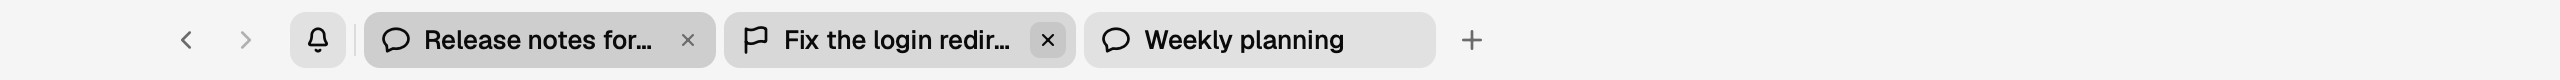
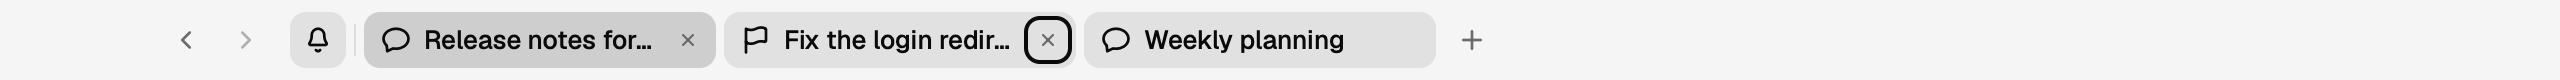
fix(rune-kit): reach and reveal the tab close button by keyboard (OPE-1975)

Changed region(s): [[0.375, 0.2, 0.4375, 0.8]]

diff --git a/apps/rune-preview/kit/src/surfaces/s01_chrome/title_bar.rs b/apps/rune-preview/kit/src/surfaces/s01_chrome/title_bar.rs
@@ -131,6 +131,7 @@ pub struct TitleBar<'a> {
 	pub traffic_lights: bool,
 	pub window_controls: Option<WindowControls>,
 	pub lift: Option<&'a Lift>,
+	pub revealed_close: Option<&'a str>,
 	pub incoming: Option<Incoming<'a>>,
 	pub overflow_open: bool,
 }
@@ -488,7 +489,8 @@ fn tab_view<S: 'static>(
 		view = view.child(text(title.clone()).font(TAB_TITLE).color(ink).truncate().shrink());
 		let shows_close = lift.is_none() && (is_active || bar.lift.is_none());
 		if shows_close {
-			view = view.child(close_button(t, language, tab.id, &title, is_active, emit));
+			let is_shown = is_active || bar.revealed_close == Some(tab.id);
+			view = view.child(close_button(t, language, tab.id, &title, is_shown, emit));
 		}
 	}
 	let rest = if tab.is_pinned { t.title_bar_pinned } else { t.title_bar_tab };
@@ -534,10 +536,9 @@ fn close_button<S: 'static>(
 		.label(copy(copy_keys::CLOSE_TAB_NAMED, language, &[("title", title)]))
 		.hover(t.title_bar_highlight)
 		.child(icon(&icons::CLOSE, CLOSE_GLYPH).color(t.muted_foreground).group_color(t.foreground))
-		.cursor(Cursor::Default)
 		.on_press(move |s: &mut S| emit(s, ChromeEvent::CloseTab(id.clone())));
 	let slot = el().pin(None, Some((TAB_HEIGHT - CLOSE) / 2.0), Some(CLOSE_END), None);
-	let slot = slot.child(instant(button.hover_group()));
+	let slot = slot.child(focusable(instant(button.hover_group()), t));
 	if is_shown { slot } else { slot.group_opacity(0.0, 1.0) }
 }
 
@@ -603,9 +604,6 @@ fn gestures<S: 'static>(
 		.on_secondary_press(move |s: &mut S, at, _: &mut Tx| {
 			emit(s, ChromeEvent::OpenTabMenu { id: menu.clone(), at: (at.x, at.y) })
 		});
-	if !bar.can_reorder {
-		return view;
-	}
 	let zone: Vec<String> = strip.zone(is_pinned).iter().map(|tab| tab.id.to_owned()).collect();
 	let slide = Slide {
 		ids: bar.tabs.iter().map(|tab| tab.id.to_owned()).collect(),
@@ -619,42 +617,73 @@ fn gestures<S: 'static>(
 	let position_offset = if is_pinned { 0 } else { strip.pinned.len() };
 	let count = strip.pinned.len() + strip.kept.len();
 	let keyed = slide.clone();
-	view.on_drag(move |s: &mut S, drag: &mut Drag, tx: &mut Tx| {
-		if tx.button() != PointerButton::Primary {
-			return;
-		}
-		let is_held = is_lifted || drag.dx.hypot(drag.dy) >= LIFT_SLOP;
-		if !is_held {
-			return;
-		}
-		let landing = slide.landing(drag);
-		match drag.phase {
-			Phase::Down => {}
-			Phase::Move => {
-				emit(s, ChromeEvent::LiftMoved(Lift { id: slide.id.clone(), dx: drag.dx, landing }))
+	let can_reorder = bar.can_reorder;
+	let can_reveal = !is_pinned && bar.lift.is_none();
+	let tab_key = format!("tab-{id}");
+	let close_key = format!("tab-close-{id}");
+	let view = if can_reorder {
+		view.on_drag(move |s: &mut S, drag: &mut Drag, tx: &mut Tx| {
+			if tx.button() != PointerButton::Primary {
+				return;
 			}
-			Phase::Up => {
-				emit(s, ChromeEvent::LiftEnded(slide.id.clone()));
-				if drag.cancelled() {
-					return;
-				}
-				match landing {
-					Landing::TornOff => emit(
-						s,
-						ChromeEvent::TearOffTab {
-							id: slide.id.clone(),
-							travel: (drag.dx, drag.dy),
-						},
-					),
-					Landing::Slot(at) if at != slide.rank => {
-						emit(s, ChromeEvent::ReorderTabs(slide.reordered(at)))
+			let is_held = is_lifted || drag.dx.hypot(drag.dy) >= LIFT_SLOP;
+			if !is_held {
+				return;
+			}
+			let landing = slide.landing(drag);
+			match drag.phase {
+				Phase::Down => {}
+				Phase::Move => emit(
+					s,
+					ChromeEvent::LiftMoved(Lift { id: slide.id.clone(), dx: drag.dx, landing }),
+				),
+				Phase::Up => {
+					emit(s, ChromeEvent::LiftEnded(slide.id.clone()));
+					if drag.cancelled() {
+						return;
 					}
-					Landing::Slot(_) => {}
+					match landing {
+						Landing::TornOff => emit(
+							s,
+							ChromeEvent::TearOffTab {
+								id: slide.id.clone(),
+								travel: (drag.dx, drag.dy),
+							},
+						),
+						Landing::Slot(at) if at != slide.rank => {
+							emit(s, ChromeEvent::ReorderTabs(slide.reordered(at)))
+						}
+						Landing::Slot(_) => {}
+					}
 				}
 			}
+		})
+	} else {
+		view
+	};
+	view.on_key(move |s: &mut S, event: &KeyEvent, tx: &mut Tx| {
+		let plain = !(event.mods.alt || event.mods.cmd || event.mods.ctrl);
+		if tx.focused() == Some(close_key.as_str()) {
+			match event.key {
+				Key::Enter if plain => {
+					emit(s, ChromeEvent::CloseTab(keyed.id.clone()));
+					return true;
+				}
+				Key::Tab if plain => emit(s, ChromeEvent::RevealClose(None)),
+				_ => {}
+			}
+			return false;
 		}
-	})
-	.on_key(move |s: &mut S, event: &KeyEvent, _: &mut Tx| {
+		if tx.focused() != Some(tab_key.as_str()) {
+			return false;
+		}
+		if event.key == Key::Tab && plain && !event.mods.shift && can_reveal {
+			emit(s, ChromeEvent::RevealClose(Some(keyed.id.clone())));
+			return false;
+		}
+		if !can_reorder {
+			return false;
+		}
 		let step: isize = match (&event.key, event.mods) {
 			(Key::Left, mods) if mods.alt && !mods.cmd && !mods.ctrl && !mods.shift => -1,
 			(Key::Right, mods) if mods.alt && !mods.cmd && !mods.ctrl && !mods.shift => 1,

diff --git a/apps/rune-preview/kit/src/surfaces/s01_chrome/tests.rs b/apps/rune-preview/kit/src/surfaces/s01_chrome/tests.rs
@@ -25,6 +25,7 @@ struct Window {
 	menu: Option<TabMenu<'static>>,
 	controls: Option<WindowControls>,
 	lift: Option<Lift>,
+	revealed: Option<String>,
 	events: Vec<ChromeEvent>,
 }
 
@@ -32,6 +33,7 @@ fn record(s: &mut Window, event: ChromeEvent) {
 	match &event {
 		ChromeEvent::LiftMoved(lift) => s.lift = Some(lift.clone()),
 		ChromeEvent::LiftEnded(_) => s.lift = None,
+		ChromeEvent::RevealClose(id) => s.revealed = id.clone(),
 		_ => {}
 	}
 	s.events.push(event);
@@ -49,6 +51,7 @@ fn bar(s: &Window) -> TitleBar<'_> {
 		traffic_lights: s.controls.is_none(),
 		window_controls: s.controls,
 		lift: s.lift.as_ref(),
+		revealed_close: s.revealed.as_deref(),
 		incoming: None,
 		overflow_open: false,
 	}
@@ -62,7 +65,14 @@ fn view(s: &Window, _: &mut Cx<Window>) -> El {
 }
 
 fn window(can_reorder: bool) -> Runtime<Window> {
-	window_with(Window { can_reorder, menu: None, controls: None, lift: None, events: Vec::new() })
+	window_with(Window {
+		can_reorder,
+		menu: None,
+		controls: None,
+		lift: None,
+		revealed: None,
+		events: Vec::new(),
+	})
 }
 
 fn window_with(state: Window) -> Runtime<Window> {
@@ -112,6 +122,7 @@ fn focus(rt: &mut Runtime<Window>, key: &str) {
 	for _ in 0..20 {
 		let focused = rt.elements().into_iter().find(|element| element.focused);
 		if focused.and_then(|element| element.key).as_deref() == Some(key) {
+			rt.state.events.clear();
 			return;
 		}
 		rt.key(KeyEvent { key: Key::Tab, mods: Mods::default() });
@@ -191,6 +202,7 @@ fn each_tab_menu_row_reports_its_tab_and_a_pinned_tab_cannot_close() {
 		menu: Some(menu),
 		controls: None,
 		lift: None,
+		revealed: None,
 		events: Vec::new(),
 	});
 	for row in
@@ -368,6 +380,7 @@ fn the_caption_buttons_report_minimize_maximize_and_close() {
 		menu: None,
 		controls: Some(WindowControls::default()),
 		lift: None,
+		revealed: None,
 		events: Vec::new(),
 	});
 	for key in ["caption-minimize", "caption-maximize", "caption-close"] {
@@ -393,6 +406,7 @@ fn an_incoming_tab_reports_its_index_in_the_full_tab_order() {
 		traffic_lights: true,
 		window_controls: None,
 		lift: None,
+		revealed_close: None,
 		incoming: Some(Incoming { tab: PRICING, x }),
 		overflow_open: false,
 	};
@@ -407,4 +421,70 @@ fn the_drag_ghost_hides_over_its_own_space() {
 	assert!(drag_ghost(&t, Language::En, &LOGIN, DockTarget::SameSpace).is_none());
 	assert!(drag_ghost(&t, Language::En, &LOGIN, DockTarget::Outside).is_some());
 	assert!(drag_ghost(&t, Language::En, &LOGIN, DockTarget::OtherSpace).is_some());
+}
+
+fn press(rt: &mut Runtime<Window>, key: Key, shift: bool) {
+	rt.key(KeyEvent { key, mods: Mods { shift, ..Mods::default() } });
+	rt.frame(FRAME);
+}
+
+fn focused(rt: &Runtime<Window>) -> Option<String> {
+	rt.elements().into_iter().find(|element| element.focused).and_then(|element| element.key)
+}
+
+fn opacity_of(rt: &Runtime<Window>, key: &str) -> f32 {
+	rt.presented(key).map_or(0.0, |(_, opacity)| opacity)
+}
+
+#[test]
+fn each_unpinned_close_button_is_focusable_and_a_pinned_tab_has_none() {
+	let rt = window(true);
+	let elements = rt.elements();
+	let focusable = |key: &str| {
+		elements.iter().find(|element| element.key.as_deref() == Some(key)).map(|e| e.focusable)
+	};
+	for close in ["tab-close-release", "tab-close-login", "tab-close-weekly", "tab-close-invoice"] {
+		assert_eq!(focusable(close), Some(true), "{close}");
+	}
+	assert_eq!(focusable("tab-close-inbox"), None);
+}
+
+#[test]
+fn tab_moves_from_a_tab_to_its_close_button_and_shift_tab_returns() {
+	let mut rt = window(true);
+	focus(&mut rt, "tab-login");
+	press(&mut rt, Key::Tab, false);
+	assert_eq!(focused(&rt).as_deref(), Some("tab-close-login"));
+	press(&mut rt, Key::Tab, true);
+	assert_eq!(focused(&rt).as_deref(), Some("tab-login"));
+	assert_eq!(
+		rt.state.events,
+		[ChromeEvent::RevealClose(Some("login".to_owned())), ChromeEvent::RevealClose(None)]
+	);
+}
+
+#[test]
+fn a_close_button_holding_keyboard_focus_is_drawn_at_full_opacity() {
+	let mut rt = window(true);
+	focus(&mut rt, "tab-login");
+	assert_eq!(opacity_of(&rt, "tab-close-login"), 0.0);
+	press(&mut rt, Key::Tab, false);
+	rt.frame(1.0);
+	assert_eq!(opacity_of(&rt, "tab-close-login"), 1.0);
+	press(&mut rt, Key::Tab, false);
+	rt.frame(1.0);
+	assert_eq!(focused(&rt).as_deref(), Some("tab-weekly"));
+	assert_eq!(opacity_of(&rt, "tab-close-login"), 0.0);
+}
+
+#[test]
+fn enter_or_space_on_a_focused_close_button_closes_its_tab() {
+	for key in [Key::Enter, Key::Text(" ".to_owned())] {
+		let mut rt = window(true);
+		focus(&mut rt, "tab-login");
+		press(&mut rt, Key::Tab, false);
+		rt.state.events.clear();
+		press(&mut rt, key, false);
+		assert_eq!(rt.state.events, [ChromeEvent::CloseTab("login".to_owned())]);
+	}
 }

diff --git a/apps/rune-preview/kit/src/surfaces/s01_chrome/scenes.rs b/apps/rune-preview/kit/src/surfaces/s01_chrome/scenes.rs
@@ -179,6 +179,7 @@ fn bar<'a>(tabs: &'a [ChromeTab<'a>], active: &'a str) -> TitleBar<'a> {
 		traffic_lights: true,
 		window_controls: None,
 		lift: None,
+		revealed_close: None,
 		incoming: None,
 		overflow_open: false,
 	}
@@ -294,7 +295,8 @@ fn with_window_controls(t: &Tokens, _: &SceneState) -> El {
 }
 
 fn inactive_tab_hover(t: &Tokens, _: &SceneState) -> El {
-	shown(t, &bar(&A4, RELEASE_NOTES.id), None)
+	let bar = TitleBar { revealed_close: Some(LOGIN_REDIRECT.id), ..bar(&A4, RELEASE_NOTES.id) };
+	shown(t, &bar, None)
 }
 
 fn library_document_tab(t: &Tokens, _: &SceneState) -> El {
@@ -443,13 +445,11 @@ pub static SCENES: &[Scene] = &[
 	scene("navigation-apptitlebar--t-23-inserted", BAR, t23_inserted),
 	scene("navigation-apptitlebar--t-43-last-tab-parted", BAR, t43_last_tab_parted),
 	scene("navigation-apptitlebar--with-window-controls", BAR, with_window_controls),
-	pointed(
-		"navigation-apptitlebar--inactive-tab-hover",
-		BAR,
-		"tab-close-login-redirect",
-		inactive_tab_hover,
-	),
-	Scene { tabs: 3, ..scene("navigation-apptitlebar--focus-visible", BAR, a1_tabs) },
+	Scene {
+		tabs: 6,
+		..scene("navigation-apptitlebar--inactive-tab-hover", BAR, inactive_tab_hover)
+	},
+	Scene { tabs: 4, ..scene("navigation-apptitlebar--focus-visible", BAR, a1_tabs) },
 	scene("navigation-titlebartabs--library-document-tab", BAR, library_document_tab),
 	scene(
 		"navigation-titlebartabs--whitespace-document-name-reads-untitled",

diff --git a/apps/rune-preview/kit/src/surfaces/s01_chrome.rs b/apps/rune-preview/kit/src/surfaces/s01_chrome.rs
@@ -35,6 +35,7 @@ static CONVERSATION: Icon = Icon {
 pub enum ChromeEvent {
 	SelectTab(String),
 	CloseTab(String),
+	RevealClose(Option<String>),
 	OpenTabMenu { id: String, at: (f32, f32) },
 	OpenOverflow,
 	NewTab,
